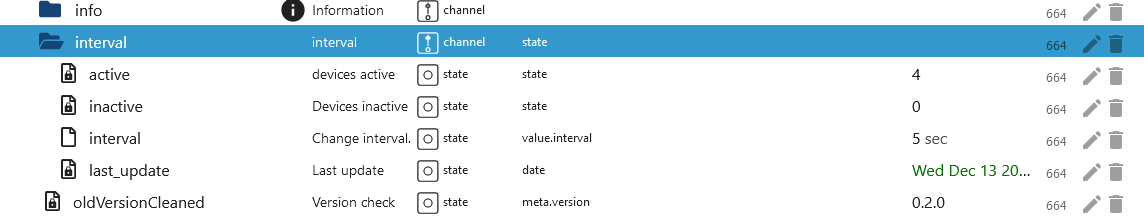
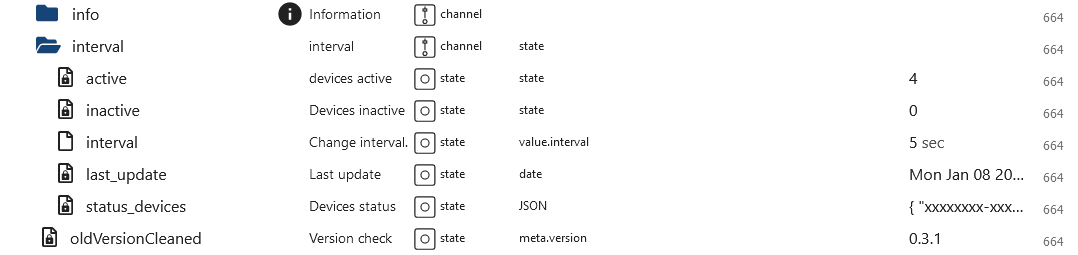
new data point interval.status_devices

diff --git a/main.js b/main.js
@@ -118,6 +118,8 @@ class LgThinq extends utils.Adapter {
         }
         this.refreshCounter["interval.active"] = null;
         this.refreshCounter["interval.inactive"] = null;
+        this.refreshCounter["interval.inactive"] = null;
+        this.refreshCounter["interval.status_devices"] = null;
         const data = await this.getForeignObjectAsync("system.config");
         if (data && data.common && data.common.language) {
             this.lang = data.common.language === this.lang ? this.lang : "en";
@@ -284,6 +286,7 @@ class LgThinq extends utils.Adapter {
                     this.setState("interval.active", 0, true);
                     this.setState("interval.active", 0, true);
                     this.setState("interval.last_update", 0, true);
+                    this.setState("interval.status_devices", JSON.stringify({}), true);
                     this.startPollMonitor();
                 }
                 this.updateInterval = this.setInterval(async () => {
@@ -344,6 +347,7 @@ class LgThinq extends utils.Adapter {
                 }
             }
             const all_workids = [];
+            const device_status = {};
             let active = 0;
             for (const dev in this.workIds) {
                 if (this.workIds[dev] == null) {
@@ -352,6 +356,7 @@ class LgThinq extends utils.Adapter {
                         deviceId: dev,
                     };
                     this.log.debug("Restart DEV: " + dev + " workid: " + this.workIds[dev] + " thinq: " + this.modelInfos[dev]["thinq2"]);
+                    device_status[dev] = "Error";
                     await this.startMonitor(devID);
                 } else {
                     this.log.debug("DEV: " + dev + " workid: " + this.workIds[dev]);
@@ -387,7 +392,11 @@ class LgThinq extends utils.Adapter {
             try {
                 for (const device of device_array) {
                     this.log.debug("device: " + JSON.stringify(device));
-                    if (device && device.returnData && device.returnCode === "0000") {
+                    if (
+                        device &&
+                        device.returnData &&
+                        (device.returnCode === "0000" || device.returnCode === "0100")
+                    ) {
                         let resultConverted;
                         let unit = new Uint8Array(1024);
                         unit = Buffer.from(device.returnData, "base64");
@@ -419,8 +428,14 @@ class LgThinq extends utils.Adapter {
                             checkType: true,
                         });
                         ++active;
+                        if (device.returnCode === "0000") {
+                            device_status[device.deviceId] = "OK";
+                        } else {
+                            device_status[device.deviceId] = "Fail";
+                        }
                     } else {
                         this.log.debug("No data:" + JSON.stringify(device) + " " + device.deviceId);
+                        device_status[device.deviceId] = "Error - " + device.returnCode;
                         const data = {
                             platformType: "thinq1",
                             deviceId: device.deviceId,
@@ -434,13 +449,17 @@ class LgThinq extends utils.Adapter {
                 this.log.info("CATCH WORKLIST RESULT: " + JSON.stringify(result));
             }
             this.log.debug("active: " + active);
-            this.setThinq1Interval(active);
+            this.setThinq1Interval(active, device_status);
             this.updatethinq1Run = false;
         }, this.config.interval_thinq1 * 1000);
     }
 
-    setThinq1Interval(active) {
+    setThinq1Interval(active, status) {
         this.setState("interval.last_update", Date.now(), true);
+        if (this.refreshCounter["interval.status_devices"] != JSON.stringify(status)) {
+            this.refreshCounter["interval.status_devices"] = JSON.stringify(status);
+            this.setState("interval.status_devices", JSON.stringify(status), true);
+        }
         if (this.refreshCounter["interval.active"] != active) {
             this.refreshCounter["interval.active"] = active;
             this.setState("interval.active", active, true);

diff --git a/lib/helper.js b/lib/helper.js
@@ -211,6 +211,26 @@ module.exports = {
         await this.createDataPoint("interval.active", common, "state");
         common = {
             name: {
+                "en": "Devices status",
+                "de": "Status der Geräte",
+                "ru": "Состояние устройств",
+                "pt": "Status dos dispositivos",
+                "nl": "Status apparaten",
+                "fr": "État des dispositifs",
+                "it": "Stato dei dispositivi",
+                "es": "Estado de los dispositivos",
+                "pl": "Status urządzeń",
+                "uk": "Статус на сервери",
+                "zh-cn": "设备状态"
+            },
+            type: "string",
+            role: "JSON",
+            write: false,
+            read: false,
+        };
+        await this.createDataPoint("interval.status_devices", common, "state");
+        common = {
+            name: {
                 "en": "Devices inactive",
                 "de": "Geräte inaktiv",
                 "ru": "Приборы неактивные",

diff --git a/docs/de/README.md b/docs/de/README.md
@@ -68,6 +68,11 @@ Der Adapter erstellt alle Datenpunkte mit dem Template aus dem Datenpunkt `model
 -   `interval.inactive` Wie viele Geräte bekommen derzeit keine Updates
 -   `interval.interval` Intervall aus der Instanz Einstellung ändern. Nach einem Adapter Neustart wird die Instanz Einstellung angewendet.
 -   `interval.last_update` Letzte Update
+-   `interval.status_devices`
+    -   `OK` Intervall OK
+    -   `Fail` Intervall Fail
+    -   `Error` Fehlende WorkID - WorkID wird neu erstellt
+    -   `Error <code>` Unbekannter Fehler - WorkID wird neu erstellt
 
     ![interval.png](img/interval.png)
 

diff --git a/docs/en/README.md b/docs/en/README.md
@@ -68,6 +68,11 @@ The adapter creates all data points with the template from the data point `model
 -   `interval.inactive` How many devices are currently not receiving updates
 -   `interval.interval` Change interval from instance setting. After an adapter restart, the instance setting is applied.
 -   `interval.last_update` Latest update
+-   `interval.status_devices`
+    -   `OK` Interval OK
+    -   `Fail` Interval Fail
+    -   `Error` Missing WorkID - WorkID is recreated
+    -   `Error <code>` Unknown error - WorkID is recreated
 
     ![interval.png](img/interval.png)
 

diff --git a/README.md b/README.md
@@ -48,6 +48,9 @@ Adapter for LG ThinQ
 ## Changelog
 ### **WORK IN PROGRESS**
 
+-   (Lucky-ESA) Added data point interval.status_devices
+-   (Lucky-ESA) Fixed missing value for fridge
+-   (Lucky-ESA) Fixed thinq1 crash
 -   (Lucky-ESA) Added save modelJSON local
 -   (mcm1957) Node 16 checked
 
